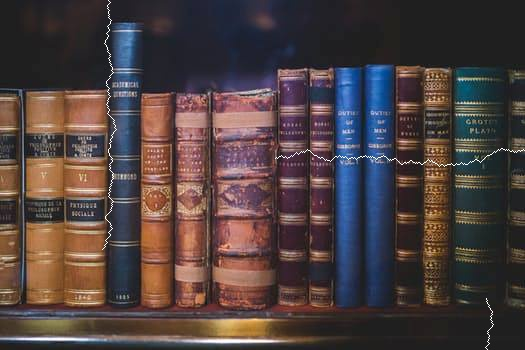
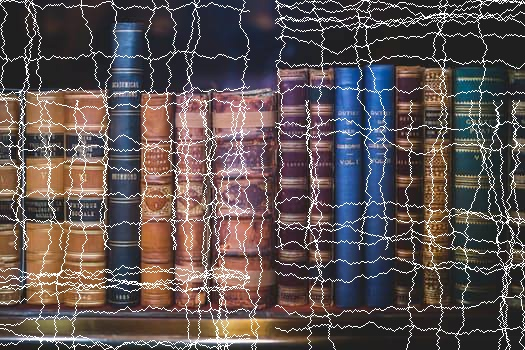
fixed tear bug

diff --git a/master.py b/master.py
@@ -7,7 +7,7 @@ import pandas as pd
 tearColor = (255, 255, 255, 0)
 radius = 3
 maxTearLength = 250
-percentage = .003
+percentage = .1
 ################
 
 
@@ -93,7 +93,7 @@ def tear(im, pix):
     length = 0
 
     while length < threshold:
-
+        print("----------NEW LINE STARTED----------")
         inter_length = 0
         start = randint(1,4) # 1-top   2-right   3-bottom   4-left
 
@@ -110,64 +110,69 @@ def tear(im, pix):
             x = 0
             y = randint(0, height-1)
 
+        print( start)
+
         # print("{0} \t {1}".format(start_x,start_y))
 
-        while ( inter_length != maxTearLength ) and ( length < threshold ):
+        while ( inter_length < maxTearLength ) and ( length < threshold ):
             # print(length)
             pix[x,y] = tearColor
-
             while True:
-                nextMove = randint(1, 5)
+                nextMove = randint(1, 3)
+                next_y = y
+                next_x = x
 
                 if start == 1:
                      # 1-left  2-down   3-right
-                    if nextMove == 1 or nextMove == 2:
-                        y += 1
-                        x -= 1
+                    if nextMove == 1:
+                        next_y += 1
+                        next_x -= 1
+                    elif nextMove == 2:
+                        next_y += 1
                     elif nextMove == 3:
-                        y += 1
-                    elif nextMove == 4 or nextMove == 5:
-                        y += 1
-                        x += 1
+                        next_x += 1
+                        next_y += 1
 
                 elif start == 2:
                      # 1-up  2-left   3-down
-                    if nextMove == 1 or nextMove == 2:
-                        y -= 1
-                        x -= 1
+                    if nextMove == 1:
+                        next_y -= 1
+                        next_x -= 1
+                    elif nextMove == 2:
+                        next_x -= 1
                     elif nextMove == 3:
-                        x -= 1
-                    elif nextMove == 4 or nextMove == 5:
-                        y += 1
-                        x -= 1
+                        next_y += 1
+                        next_x -= 1
 
                 elif start == 3:
                       # 1-left  2-up   3-right
-                    if nextMove == 1 or nextMove == 2:
-                        y -= 1
-                        x -= 1
+                    if nextMove == 1:
+                        next_y -= 1
+                        next_x -= 1
+                    elif nextMove == 2:
+                        next_y -= 1
                     elif nextMove == 3:
-                        y -= 1
-                    elif nextMove == 4 or nextMove == 5:
-                        y -= 1
-                        x += 1
+                        next_y -= 1
+                        next_x += 1
 
                 elif start == 4:
                      # 1-up   2-right   3-down
-                    if nextMove == 1 or nextMove == 2:
-                        y -= 1
-                        x += 1
+                    if nextMove == 1:
+                        next_y -= 1
+                        next_x += 1
+                    elif nextMove == 2:
+                        next_x += 1
                     elif nextMove == 3:
-                        x += 1
-                    elif nextMove == 4 or nextMove == 5 :
-                        y += 1
-                        x += 1
+                        next_y += 1
+                        next_x += 1
 
-                if (0 <= x < width) and (0 <= y < height):
+                if (0 <= next_x < width) and (0 <= next_y < height):
+                    x = next_x;
+                    y = next_y
+                    inter_length += 1;
                     break
 
             length += 1
-            inter_length += 1
 
     return im
 
